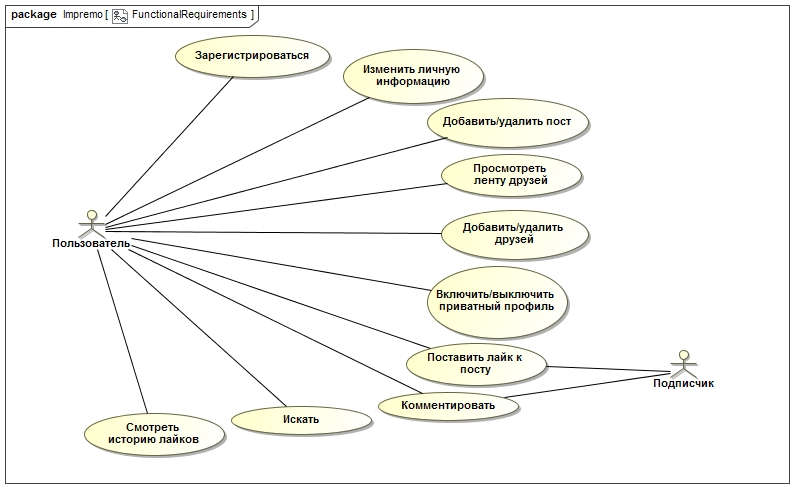
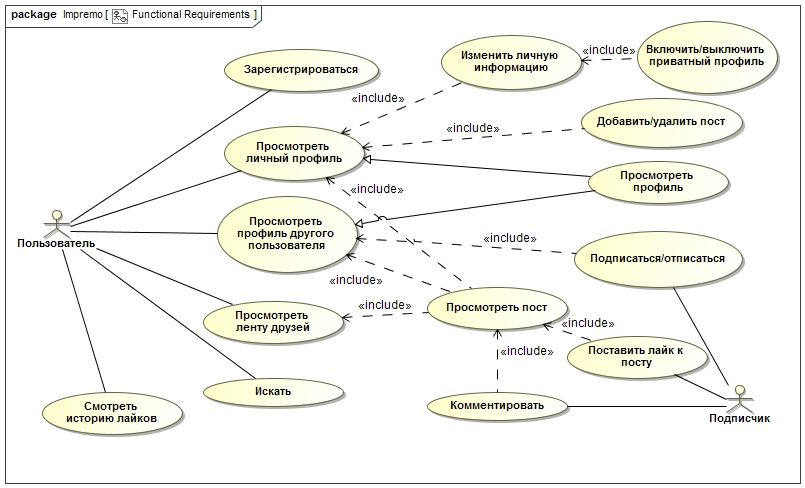
Fixed Functional Requirements. Fixed Use Cases, added new Use Cases.

diff --git a/Diagrams and modeling/Use Cases.md b/Diagrams and modeling/Use Cases.md
@@ -1,13 +1,97 @@
 # Поток событий для прецедента "Зарегистрироваться"  
 ## Основной поток
-1. Вариант использования начинается, когда клиент нажимает кнопку "Зарегистрироваться".
+1. Вариант использования начинается, когда пользователь нажимает кнопку "Зарегистрироваться".
 2. Система запрашивает логин и пароль.
 3. Пользователь вводит логин и пароль.
 4. Система подтверждает правильность логина и пароля, уникальность логина.
 5. Система выводит на экран профиль пользователя.
 6. Вариант использования завершается.
-## Альтернативные потоки
+## Потоки ошибок
 ### 4А. Неправильный логин/пароль.
 1. Система обнаруживает, что комбинация логина и пароля не верна.
-2. Система сообает об ошибке и предлагает ввести логин и пароль заново.
+2. Система сообщает об ошибке и предлагает ввести логин и пароль заново.
 3. Выполнение переходит на шаг 2 основного потока.
+
+# Поток событий для прецедента "Просмотреть личный профиль"
+## Основной поток
+1. Вариант использования начинается, когда пользователь нажимает кнопку "Просмотреть личный профиль" на странице своего профиля.
+2. На экран пользователя выводится личный профиль.
+3. Система запрашивает требуемое действие (изменить личную информацию, добавить пост, удалить пост, просмотреть пост).
+4. Пользователь сообщает системе свой выбор.
+5. Согласно выбору выполняется один из альтернативных потоков (изменить личную информацию, добавить пост, удалить пост, просмотреть пост).
+6. Вариант использования заканчивается, когда пользователь нажимает кнопку, связанную с другим вариантом использования.
+## Альтернативные потоки
+### 5.A. Изменить личную информацию.
+1. Система выводит личные данные пользователя.
+2. Пользователь изменяет личные данные.
+3. Пользователь нажимает кнопку сохранить, если данные введены неверно, выполняется альтернативный поток А2.
+4. Выполнение переходит на шаг 2 основного потока.
+### 5.Б. Добавить пост.
+1. Система предлагает выбрать фотографию.
+2. Пользователь загружает фотографию.
+3. Система предлагает ввести описание к фотографии.
+4. Пользователь вводит описание.
+5. Пользователь нажимает кнопку "Опубликовать".
+### 5.В. Удалить пост.
+1. Пользователь выбирает пост.
+2. Пользователь нажимает кнопку "Удалить".
+### 5.Г. Просмотреть пост. 
+1. Пользователь выбирает пост.
+2. Система выводит на экран фотографию, описание и комментарии.
+### А1. Отмена
+1. Система обнаруживает, что нажата кнопка "Отмена".
+2. Выполнение переходит к шагу 2 основного потока.
+## Потоки ошибок
+### E1. Неправильно введены данные
+1. Система обнаруживает, что неправильно введены данные.
+2. Система сообщает об ошибке.
+3. Переходит к выполнению шага 1 подчиненного потока 5.А. 
+
+# Поток событий для прецедента "Просмотреть профиль другого пользователя"
+## Основной поток
+1. Вариант использования начинается, когда пользователь заходит на страницу другого пользователя.
+2. Выводится информация и данные другого пользователя.
+3. Система ожидает требуемого действия(просмотреть пост, подписаться/отписаться).
+4. Согласно выбору выполняется один из альтернативных потоков.
+5. Вариант использования заканчивается, когда пользователь нажимает кнопку, связанную с другим вариантом использования.
+## Альтернативные потоки
+### 3А. Просмотреть пост
+1. Пользователь выбирает пост.
+2. Система выводит на экран фотографию, описание и комментарии.
+### 3Б. Подписаться/отписаться.
+1. Пользователь нажимает на кнопку "Подписаться".
+2. Система добавляет другого пользователя в список друзей.
+
+# Поток событий для прецедента "Просмотреть ленту друзей"
+## Основной поток
+1. Вариант использования начинается, когда пользователь нажимает на кнопку "Лента друзей".
+2. Система выводит на экран посты друзей.
+3. Система ожидает требуемого действия(просмотреть пост, комментировать, поставить лайк).
+4. Согласно выбору выполняется один из альтернативных потоков.
+5. Вариант использования заканчивается, когда пользователь нажимает кнопку, связанную с другим вариантом использования.
+## Альтернативные потоки
+### 3А. Просмотреть пост
+1. Пользователь выбирает пост.
+2. Система выводит на экран фотографию, описание и комментарии.
+### 3Б. Комментировать
+1. Пользователь вводит комментарий.
+2. Пользователь нажимает кнопку "Добавить комментарий".
+3. Система добавляет к посту комментарий.
+### 3В. Поставить лайк
+1. Пользователь нажимает кнопку "Лайк".
+2. Система добавляет к посту один лайк, если лайк до этого был уже нажат, система отнимает один лайк.
+
+# Поток событий для прецедента "Искать"
+## Основной поток
+1. Вариант использования начинается, когда пользователь нажимает на кнопку "Искать".
+2. Система запрашивает необходимые данные.
+3. Пользователь вводит необходимые данные.
+4. Система производит поиск.
+5. На экран выводится результат поиска.
+6. Вариант использования завершается.
+
+# Поток событий для прецедента "Смотреть историю лайков"
+## Основной поток
+1. Вариант использования начинается, когда пользователь нажимает на кнопку "Смотреть историю лайков".
+2. На экран выводится история лайков пользователя.
+3. Вариант использования завершается.
